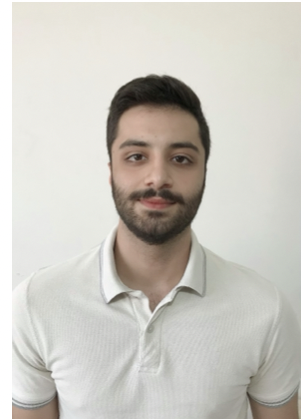
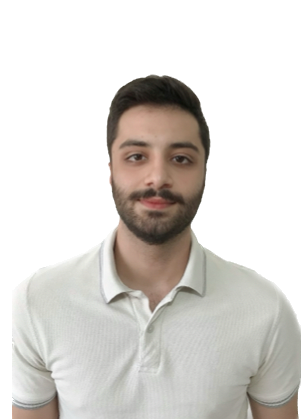
updated

diff --git a/src/App.js b/src/App.js
@@ -1,5 +1,4 @@
 import './App.css';
-import Header from './Header';
 import Footer from './Footer';
 const Mojtaba = {
   Name : 'Mojtaba Bagheri Chenari',
@@ -7,18 +6,18 @@ const Mojtaba = {
   Website : 'www.github.com/mojibc1377',
   Email : 'mojtaba.bagherich@gmail.com',
   About : 'I am a developer with a particular interest in making things simple and automating daily tasks. I try to keep up with data science and best practices, and am always looking for new things to learn.',
-  Intrests : 'Food expert. Basketball player. Reader. Internet fanatic. Bacon buff. Entrepreneur. Travel geek. Pop culture ninja. Coffee fanatic.'
+  Intrests : 'Food expert. Basketball player. Reader. Internet fanatic. Travel geek. Coffee fanatic. Football. surfing the internet. Taking a walk.'
 };
 function App() {
   return (
     <div className="info-box">
-      <img className='Pp' src={require('./image/Screen Shot 1400-09-28 at 20.15.36.png')}/>
+      <img className='Pp' src={require('./image/Screen Shot 1400-09-28 at 20.15.36.png')} alt="profile"/>
       <h1 className='Name'>{Mojtaba.Name}</h1>
       <h2 className='Job'>{Mojtaba.Job}</h2>
       <h3 className='WebSite'>{Mojtaba.Website}</h3>
       <div className='btn'>
         <button id='Email'>
-          <a href="mailto:mojibc1377@gmail.com?body=My custom mail body" color='black'>E-Mail</a>
+          <a href="mailto:mojtaba.bagherich@gmail.com?body=My custom mail body" style={{ textDecoration: 'none' }}color='black'>E-Mail</a>
         </button>
         
       </div>

diff --git a/src/Footer.js b/src/Footer.js
@@ -1,11 +1,12 @@
 import * as React from 'react';
 export default function Footer(){
+    
     return(
         <div>
             <footer className='footer'>
-                <a href="https://www.github.com/mojibc1377"> <img className='git' src={require('./image/icons8-github-squared-100.png')}></img></a>
-                <a href="https://www.twitter.com/BaghericMojtaba"> <img className='twitter' src={require('./image/icons8-twitter-48.png')}></img></a>
-                <a href="https://www.instagram.com/bagheric.mojtaba"> <img className='instagram' src={require('./image/icons8-instagram-48.png')}></img></a>
+                <a href="https://www.github.com/mojibc1377"> <img className='git' src={require('./image/icons8-github-squared-100.png')} alt='git'></img></a>
+                <a href="https://www.twitter.com/BaghericMojtaba"> <img className='twitter' src={require('./image/icons8-twitter-48.png')} alt='twitter'></img></a>
+                <a href="https://www.instagram.com/bagheric.mojtaba"> <img className='instagram' src={require('./image/icons8-instagram-48.png')} alt='instagram'></img></a>
             </footer>
         </div>
     );

diff --git a/src/App.css b/src/App.css
@@ -1,6 +1,5 @@
 .Pp{
   border-radius: 10px 10px 0px 0px;
-  border: 2px solid;
   align-items: center;
   text-align: center;
 }
@@ -46,6 +45,10 @@
   border-color: #5093E2;
   margin-right: 10px;
 }
+#Email:hover{
+  background-color: #5093E2;
+  size: 120%;
+}
 #linkedIn{
   background-color: #5093E2;
   width: 115px;
@@ -84,6 +87,17 @@
 .instagram{
   width: 48px;
   height: 48px;
+}
+.phone{
+  width: 48px;
+  height: 48px;
+}
+a {
+  color: black;
+}
+a:hover {
+   font-size: large;
+   color: #00F
 }
 
 

diff --git a/src/index.js b/src/index.js
@@ -3,7 +3,6 @@ import ReactDOM from 'react-dom/client';
 import './index.css';
 import App from './App';
 import reportWebVitals from './reportWebVitals';
-import Header from './Header';
 
 const root = ReactDOM.createRoot(document.getElementById('root'));
 root.render(
